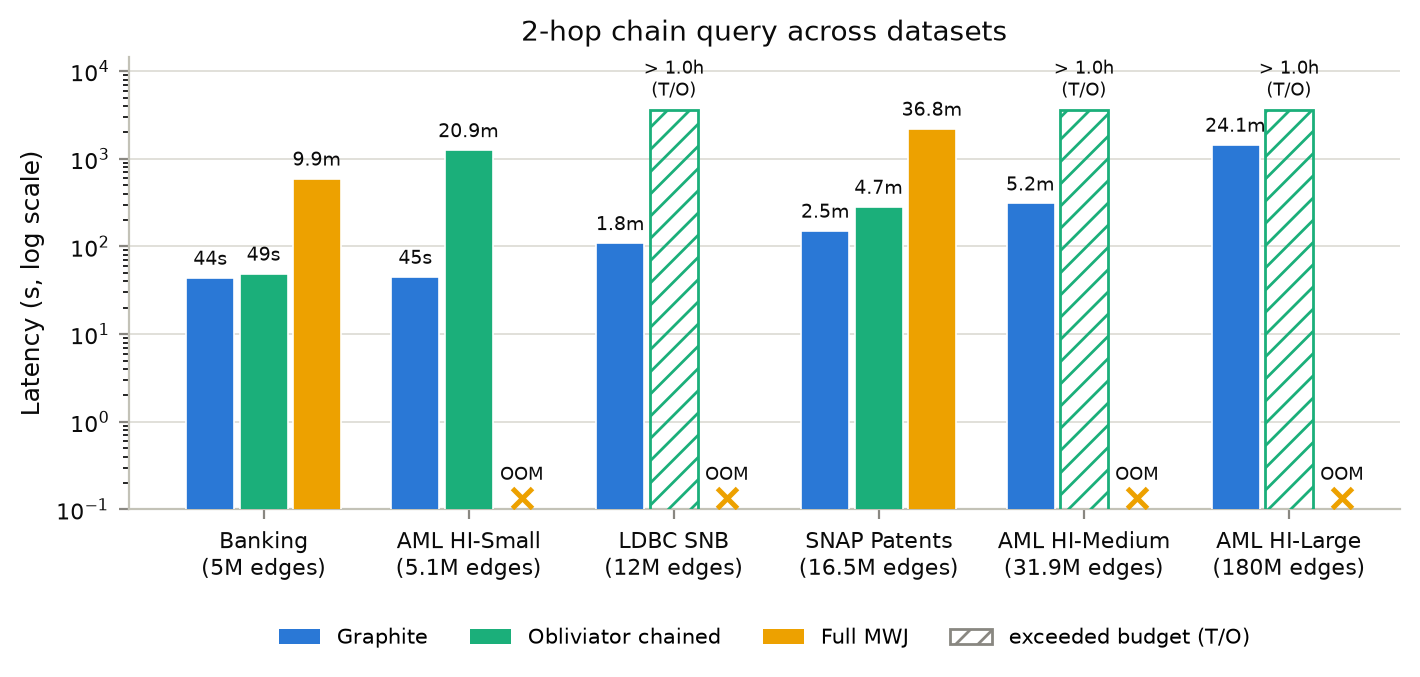
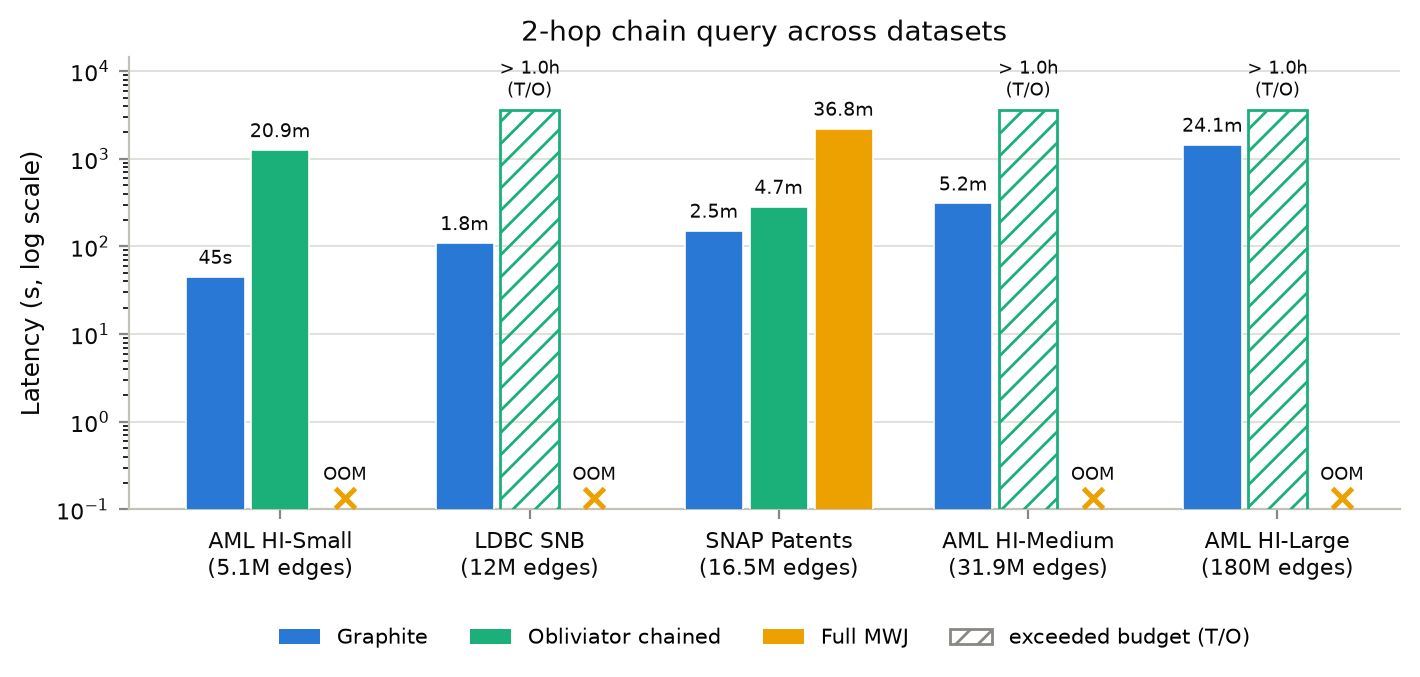
Drop Banking from the E3 figure via new plot --exclude flag
plot_e3_cross_dataset.py gains --exclude <labels> to omit datasets from
the figure without touching the summary data (names validated against the
CSV). e3_cross_dataset.png/pdf regenerated from summary_all6.csv with
--exclude banking_1M: five datasets remain (hi_small, snb_sf30, patents,
hi_medium, hi_large).

Changed region(s): [[0.1239, 0.0931, 0.9606, 0.8685]]

diff --git a/scripts/experiments/plot_e3_cross_dataset.py b/scripts/experiments/plot_e3_cross_dataset.py
@@ -16,11 +16,14 @@ Failed cells are drawn honestly, never as a fake latency:
   OOM     -> an x marker at the baseline labeled "OOM" (no time bound exists).
 
 Usage:
-  python3 scripts/experiments/plot_e3_cross_dataset.py [summary.csv]
+  python3 scripts/experiments/plot_e3_cross_dataset.py [summary.csv] [--exclude d1,d2]
   # default input: <project>/results/e3_cross_dataset/summary.csv
+  # --exclude drops datasets (by summary label, e.g. banking_1M) from the
+  #   figure without touching the summary data
   # output: e3_cross_dataset.png + .pdf next to the input CSV
 """
 
+import argparse
 import csv
 import json
 import sys
@@ -71,12 +74,27 @@ def fmt_seconds(sec: float) -> str:
 
 
 def main():
-    summary_path = Path(sys.argv[1]) if len(sys.argv) > 1 else DEFAULT_SUMMARY
+    ap = argparse.ArgumentParser(description=__doc__,
+                                 formatter_class=argparse.RawDescriptionHelpFormatter)
+    ap.add_argument("summary", nargs="?", default=DEFAULT_SUMMARY, type=Path,
+                    help=f"summary.csv from run_e3_cross_dataset.py "
+                         f"(default: {DEFAULT_SUMMARY})")
+    ap.add_argument("--exclude", default="",
+                    help="comma-separated dataset labels to drop from the "
+                         "figure (e.g. banking_1M)")
+    args = ap.parse_args()
+
+    summary_path = args.summary
     if not summary_path.is_file():
         sys.exit(f"summary not found: {summary_path}")
 
     with open(summary_path) as f:
         cells = list(csv.DictReader(f))
+    excluded = {d for d in args.exclude.split(",") if d}
+    unknown = excluded - {c["dataset"] for c in cells}
+    if unknown:
+        sys.exit(f"--exclude names not in {summary_path}: {sorted(unknown)}")
+    cells = [c for c in cells if c["dataset"] not in excluded]
     if not cells:
         sys.exit(f"{summary_path} is empty")
 
